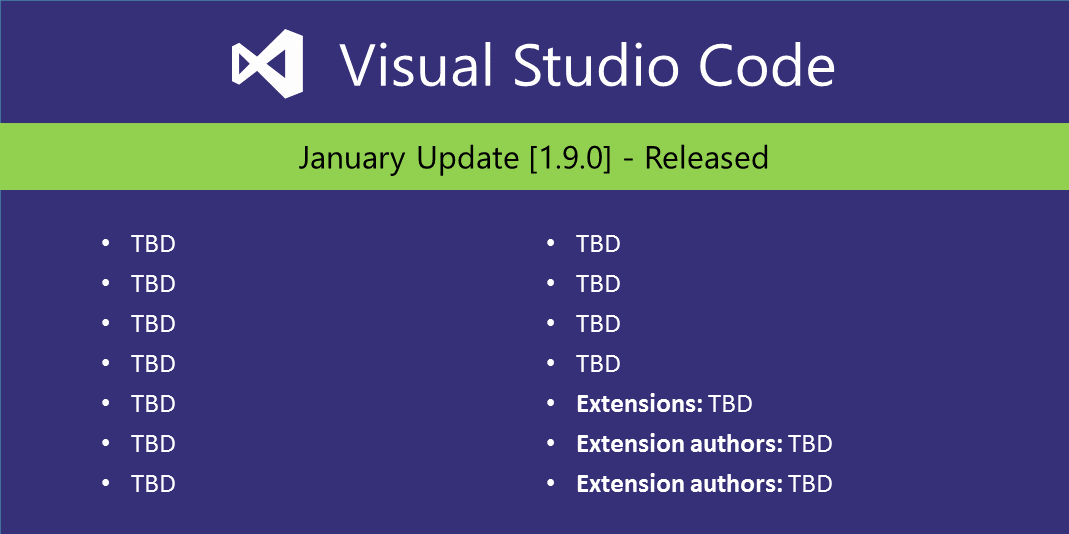
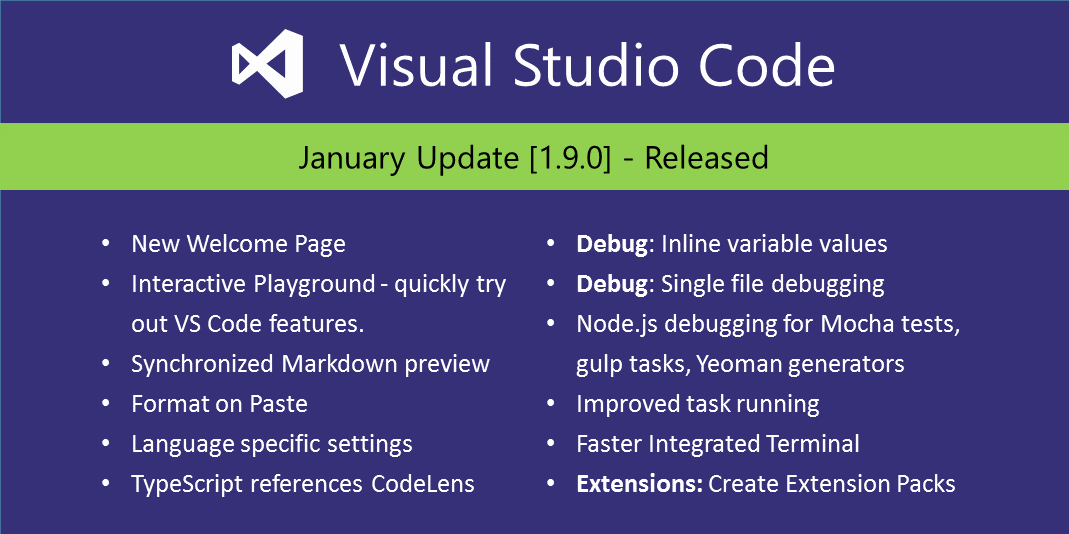
Add release highlights social image

diff --git a/release-notes/v1_9.md b/release-notes/v1_9.md
@@ -460,11 +460,11 @@ The following options allows to disable the built-in PHP completion and hover su
 
 ### Confirmation of the `php.validate.executablePath` setting
 
-Due to potential security risks, VS Code ask for confirmation of the `php.validate.executablePath` workspace setting before executing the program the setting is pointing to. 
+Due to potential security risks, VS Code asks for confirmation of the `php.validate.executablePath` workspace setting before executing the program the setting is pointing to. 
 
 ![Confirming PHP executable](images/1_9/confirming-php.png)
 
-If the setting is set on user level no confirmation is necessary.
+If the path is set in user settings, no confirmation is necessary.
 
 ## Extensions
 
@@ -678,15 +678,13 @@ In order to make the transition easier, we made changes to how you specify the P
 
 The `typescript.tsdk` setting created a similar security exposure which has been addressed separately.
 
-### Launch new instance from Unity/Ubuntu
+### Launch new instance from Unity on Ubuntu
 
-The standard shortcuts to launch a new instance of an application from the Unity launcher now correctly open a new instance of VS Code (`kbstyle(Win+Shift+<number>)`, `kbstyle(Shift)`+click, middle click).
+The standard shortcuts to launch a new instance of an application from the Ubuntu Unity user interface now correctly open a new instance of VS Code (`kbstyle(Win+Shift+<number>)`, `kbstyle(Shift)`+click, middle click).
 
 ### New command to report performance issues
 
-We added a new command, **Report Performance Issues** in the **Command Palette**, that makes it very easy to open a new GitHub issue with details about your environment and performance timings. If you think that VS Code is starting slow on your system, please use this new command to tell us about it!
-
-![Report Performance Issue](images/1_9/performance.png)
+We added a new command, **Report Performance Issues** in the **Command Palette**, that makes it very easy to open a new GitHub issue with details about your environment and performance timings prefilled into the issue description (OS, CPUs, Memory, task timings). If you think that VS Code is starting slow on your system, please use this new command to tell us about it!
 
 ### Editor Performance Optimization
 
